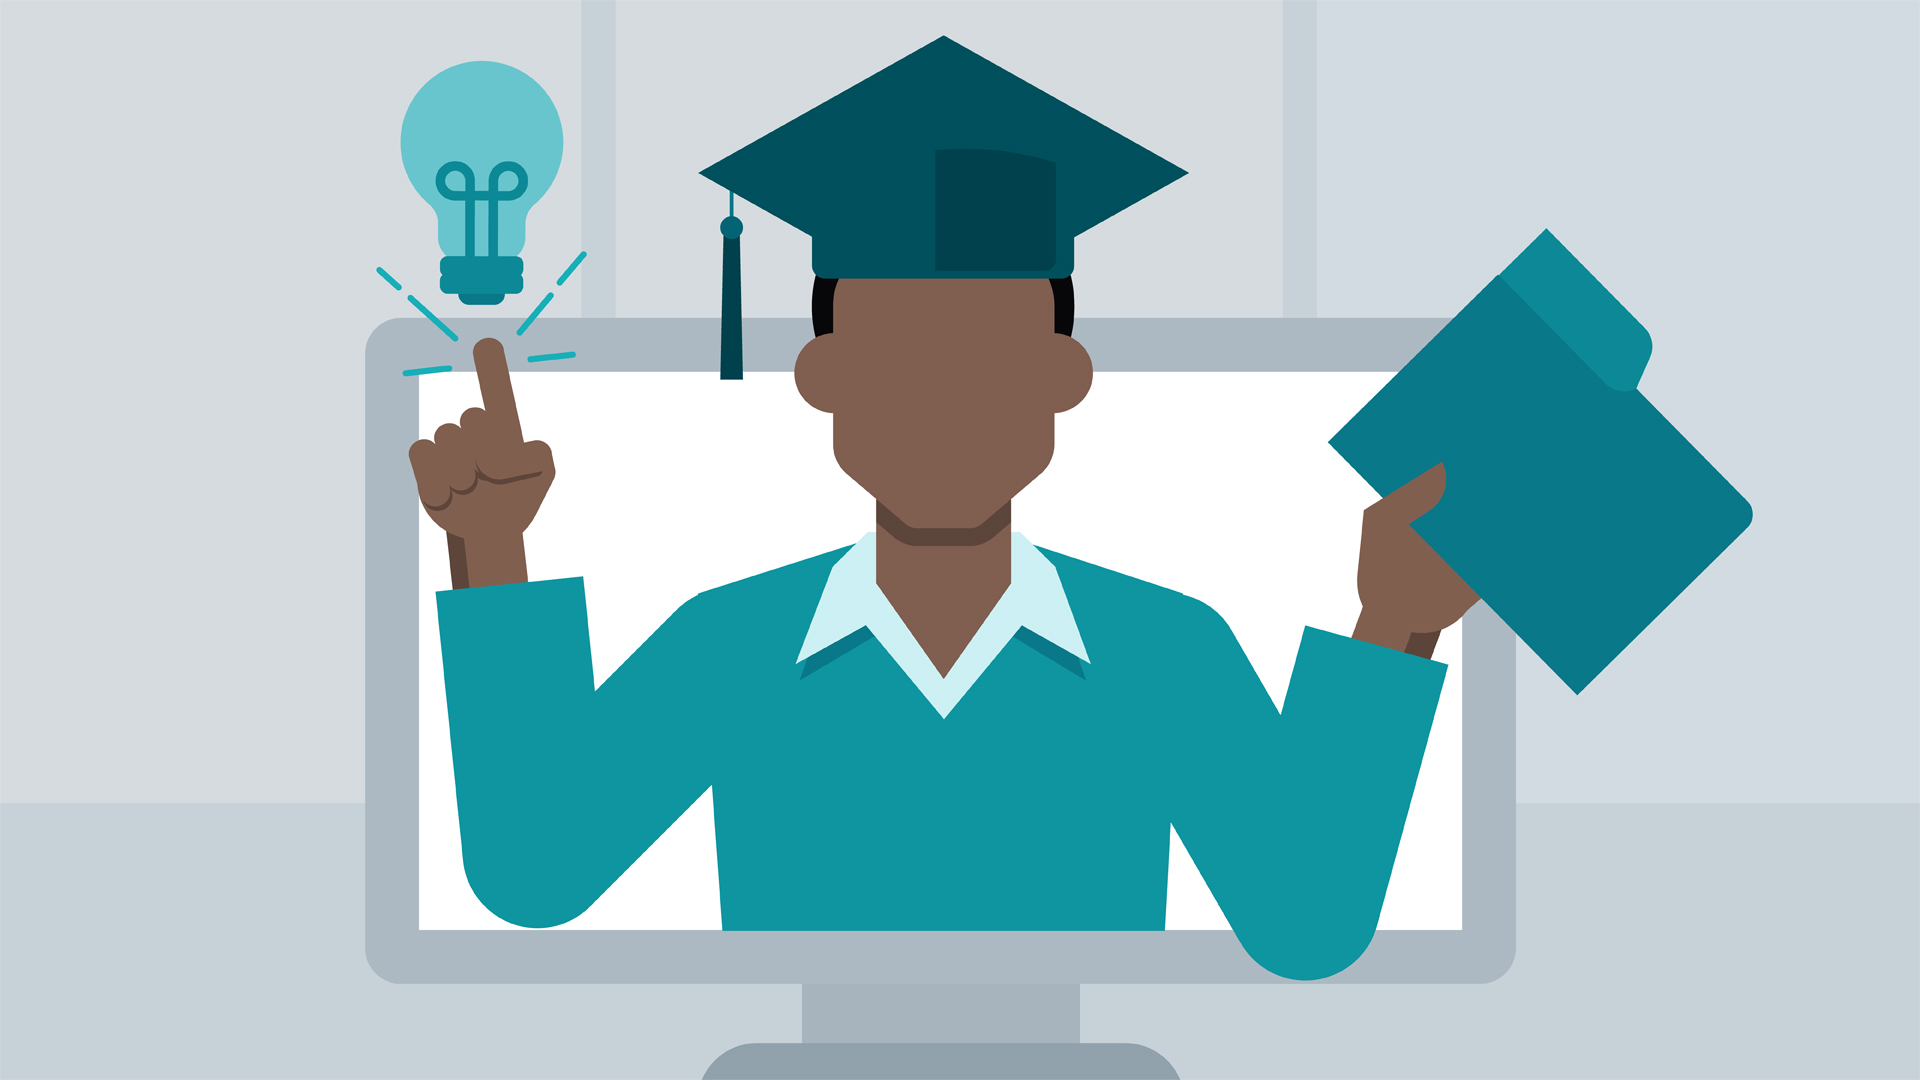
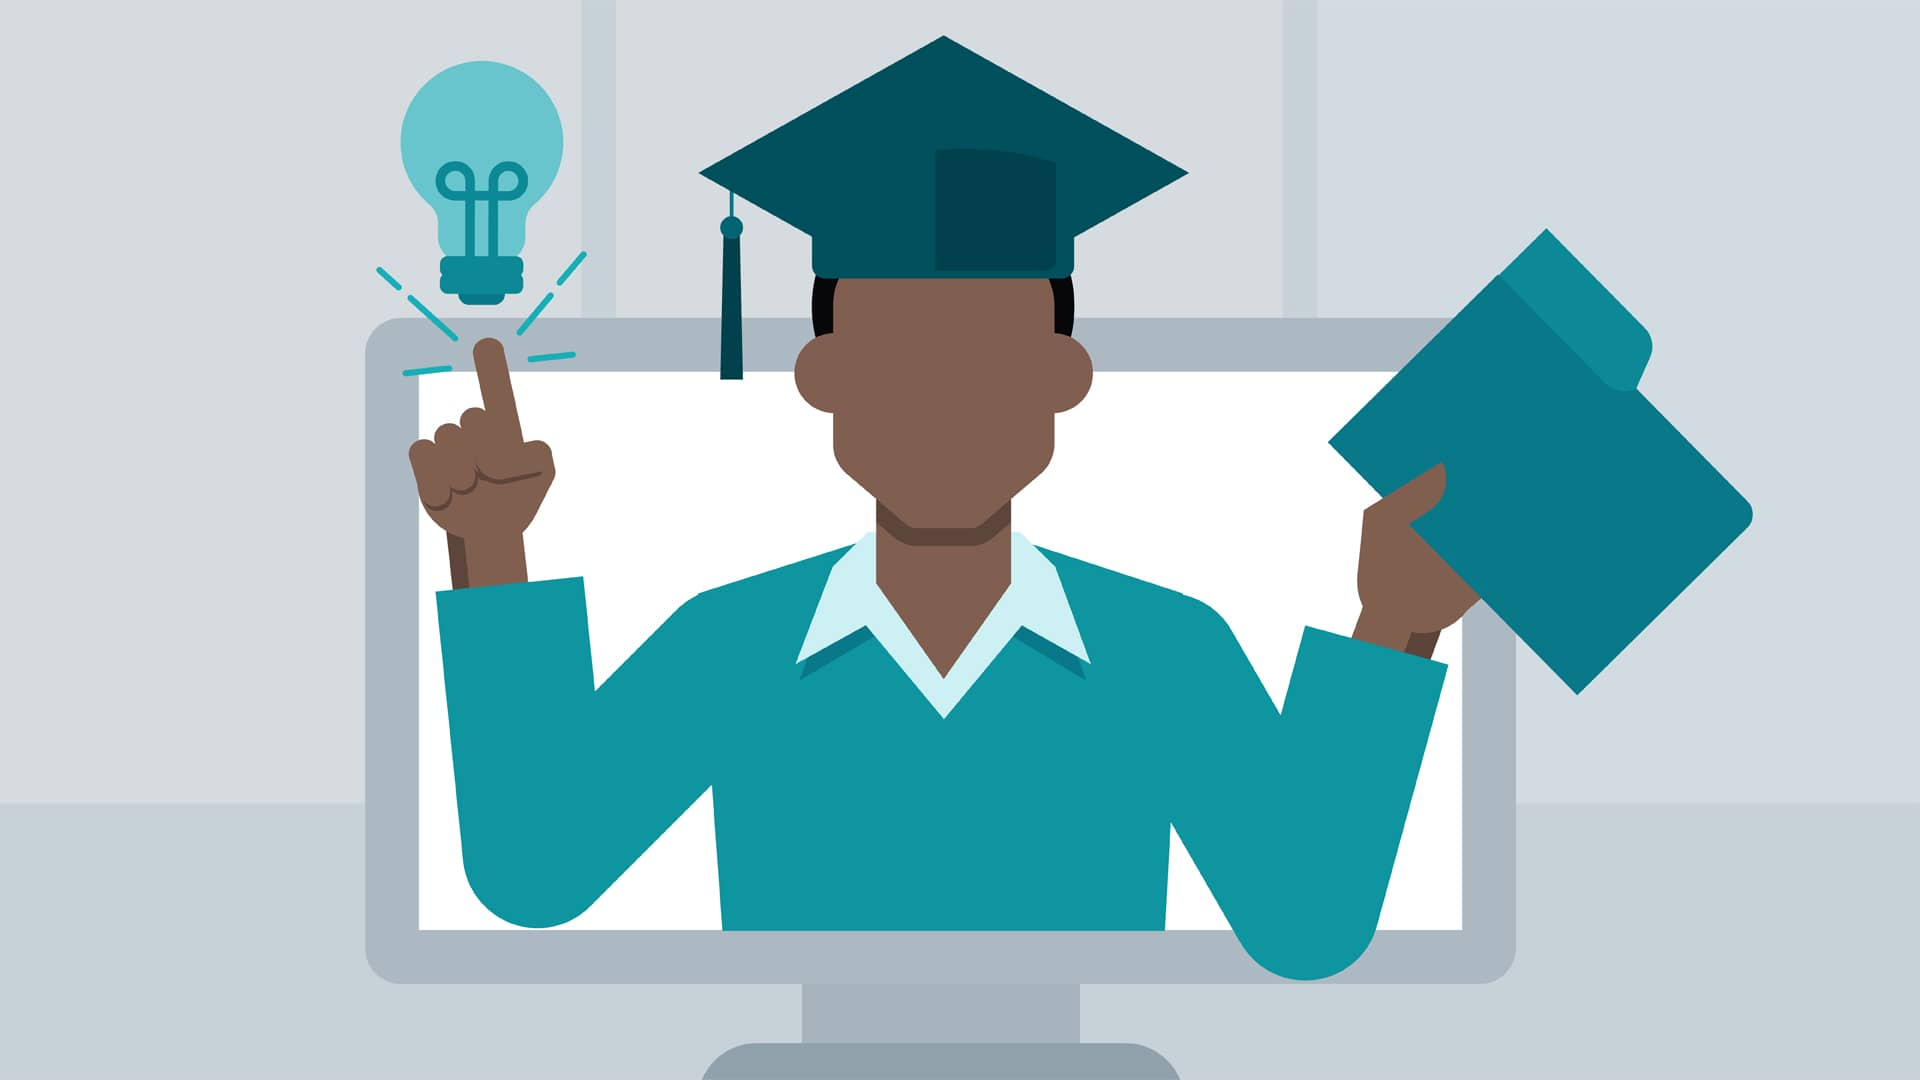
Compress images

diff --git a/client/src/components/Dashboard/Profile/ProfileStepper.jsx b/client/src/components/Dashboard/Profile/ProfileStepper.jsx
@@ -1,0 +1,99 @@
+import React from 'react';
+import {makeStyles} from '@material-ui/core/styles';
+import Stepper from '@material-ui/core/Stepper';
+import Step from '@material-ui/core/Step';
+import StepLabel from '@material-ui/core/StepLabel';
+import Button from '@material-ui/core/Button';
+import Typography from '@material-ui/core/Typography';
+
+const useStyles = makeStyles((theme) => ({
+  root: {
+    width: '100%',
+  },
+  backButton: {
+    marginRight: theme.spacing(1),
+  },
+  instructions: {
+    marginTop: theme.spacing(1),
+    marginBottom: theme.spacing(1),
+  },
+}));
+
+function getSteps() {
+  return [
+    'Select master blaster campaign settings',
+    'Create an ad group',
+    'Create an ad',
+  ];
+}
+
+function getStepContent(stepIndex) {
+  switch (stepIndex) {
+    case 0:
+      return 'Select campaign settings...';
+    case 1:
+      return 'What is an ad group anyways?';
+    case 2:
+      return 'This is the bit I really care about!';
+    default:
+      return 'Unknown stepIndex';
+  }
+}
+
+export default function ProfileStepper() {
+  const classes = useStyles();
+  const [activeStep, setActiveStep] = React.useState(0);
+  const steps = getSteps();
+
+  const handleNext = () => {
+    setActiveStep((prevActiveStep) => prevActiveStep + 1);
+  };
+
+  const handleBack = () => {
+    setActiveStep((prevActiveStep) => prevActiveStep - 1);
+  };
+
+  const handleReset = () => {
+    setActiveStep(0);
+  };
+
+  return (
+    <div className={classes.root}>
+      <Stepper activeStep={activeStep} alternativeLabel>
+        {steps.map((label) => (
+          <Step key={label}>
+            <StepLabel>{label}</StepLabel>
+          </Step>
+        ))}
+      </Stepper>
+      <div>
+        {activeStep === steps.length ? (
+          <div>
+            <Typography className={classes.instructions}>
+              All steps completed
+            </Typography>
+            <Button onClick={handleReset}>Reset</Button>
+          </div>
+        ) : (
+          <div>
+            <Typography className={classes.instructions}>
+              {getStepContent(activeStep)}
+            </Typography>
+            <div>
+              <Button
+                disabled={activeStep === 0}
+                onClick={handleBack}
+                className={classes.backButton}
+              >
+                Back
+              </Button>
+              <Button variant="contained" color="primary" onClick={handleNext}>
+                {activeStep === steps.length - 1 ? 'Finish' : 'Next'}
+              </Button>
+            </div>
+          </div>
+        )}
+      </div>
+    </div>
+  );
+}

diff --git a/client/src/components/Dashboard/Profile/Profile.jsx b/client/src/components/Dashboard/Profile/Profile.jsx
@@ -3,7 +3,7 @@ import {connect} from 'react-redux';
 import {Helmet} from 'react-helmet';
 import clsx from 'clsx';
 import ReactDOM from 'react-dom';
-import axios from '../../helpers/axiosConfig';
+import axios from '../../../helpers/axiosConfig';
 import {Container, Grid, IconButton} from '@material-ui/core';
 import withStyles from '@material-ui/core/styles/withStyles';
 import Gravatar from 'react-gravatar';
@@ -174,9 +174,11 @@ class Profile extends Component {
                           <AttachFileIcon />
                         </IconButton>
                       </Link>
-                      <IconButton aria-label="edit" color="secondary">
-                        <EditIcon />
-                      </IconButton>
+                      <Link to="/">
+                        <IconButton aria-label="edit" color="secondary">
+                          <EditIcon />
+                        </IconButton>
+                      </Link>
                       <IconButton href={'mailto:' + user.email}>
                         <EmailIcon />
                       </IconButton>

diff --git a/client/src/components/Account/SignIn.jsx b/client/src/components/Account/SignIn.jsx
@@ -37,7 +37,6 @@ const useStyles = (theme) => ({
   },
   image: {
     backgroundImage: 'url(' + img + ')',
-    //backgroundImage: `url(${"../../img/form-background.jpg"})`,
     backgroundRepeat: 'no-repeat',
     backgroundPosition: 'center',
     backgroundSize: 'cover',
@@ -95,11 +94,7 @@ class SignIn extends Component {
               <Typography variant="h4">Sign in to your account</Typography>
               <Typography variant="h6">
                 {'Or '}
-                <Link
-                  color="inherit"
-                  to="/sign-up"
-                  style={{textDecoration: 'none'}}
-                >
+                <Link color="inherit" to="/sign-up">
                   create a new account.
                 </Link>
               </Typography>

diff --git a/client/src/components/Navigation/PrivateHome.jsx b/client/src/components/Navigation/PrivateHome.jsx
@@ -1,6 +1,6 @@
 import React, {Fragment} from 'react';
 import {Route} from 'react-router-dom';
-import Profile from '../Dashboard/Profile';
+import Profile from '../Dashboard/Profile/Profile';
 import HomePage from '../Home/HomePage';
 import PrimaryNav from './PrimaryNav';
 
